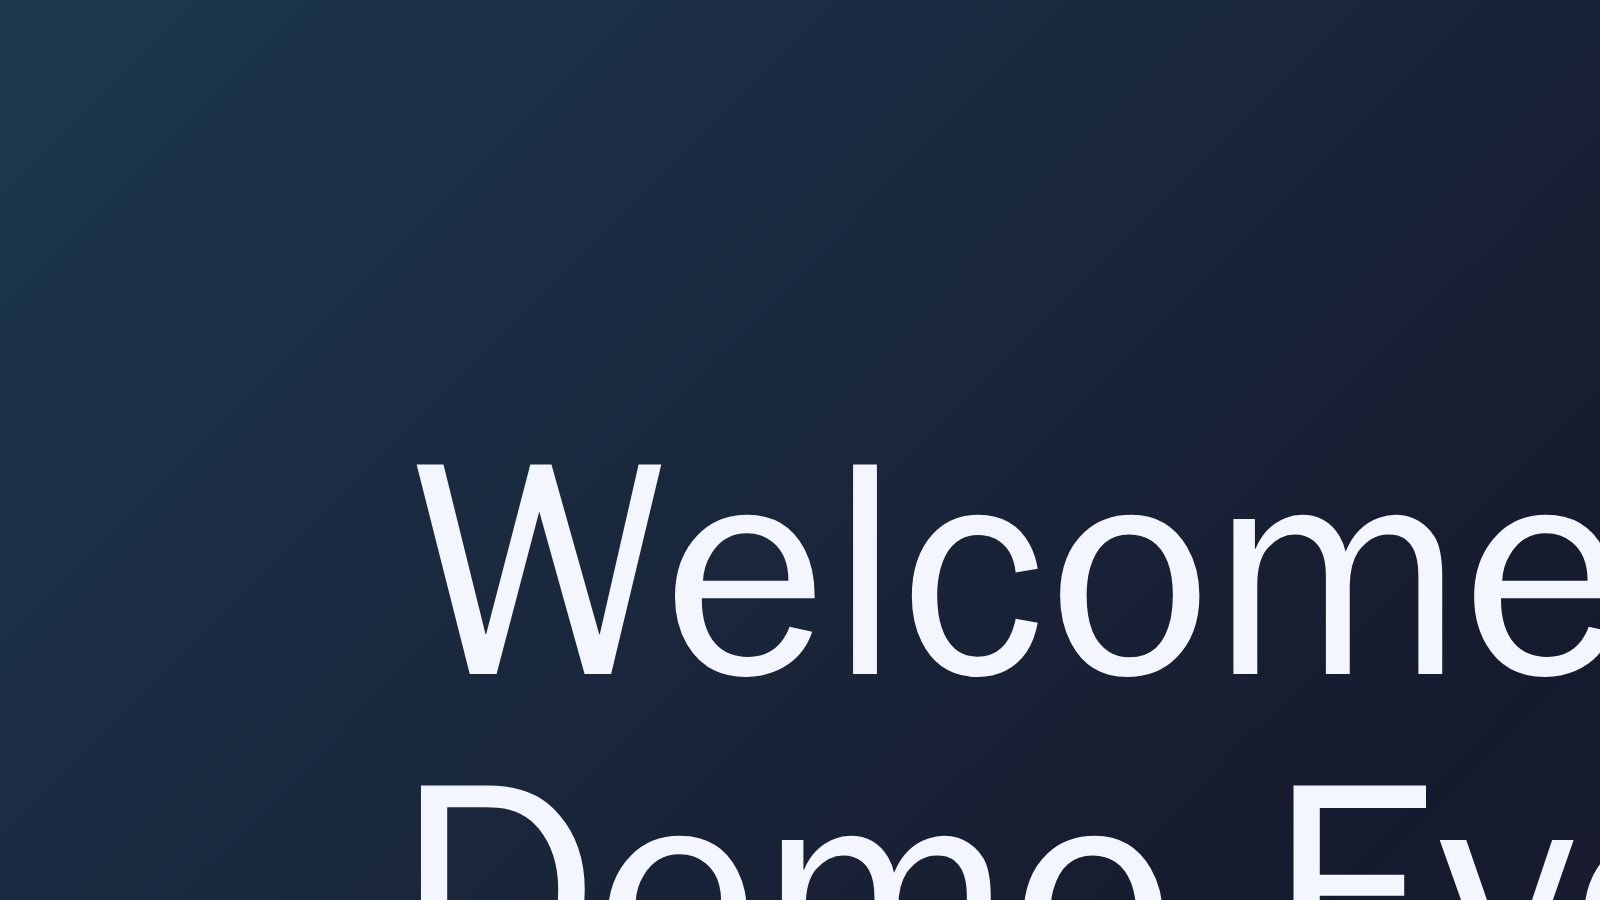
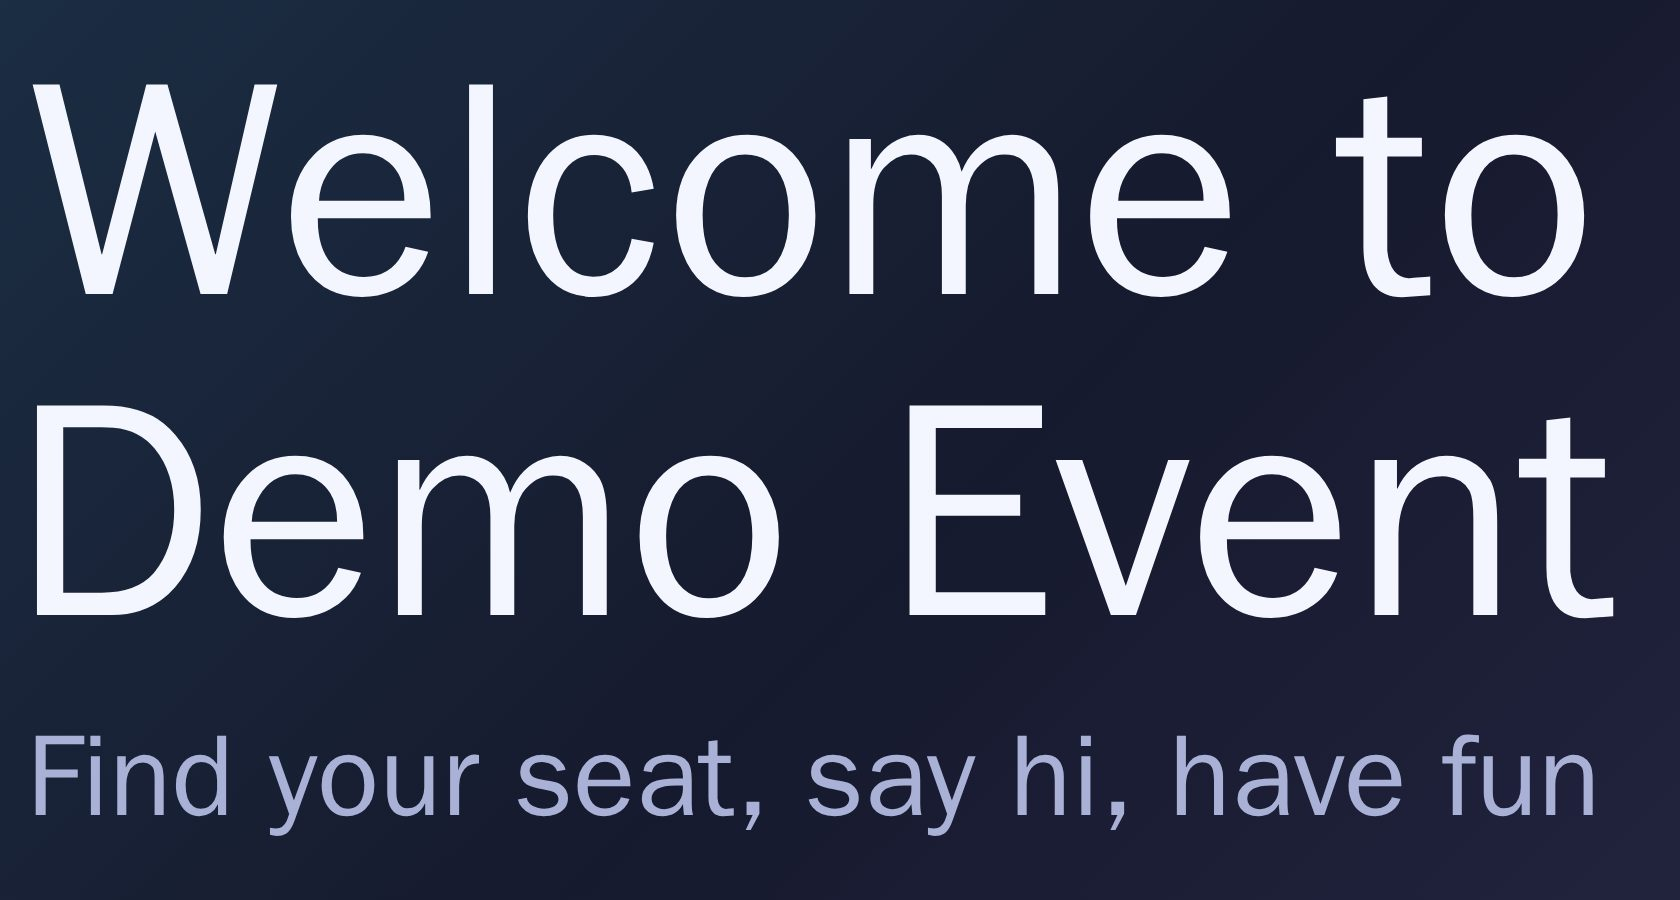
docs(reports): step 4 polish book: Starting soon in real time, Fire by hand, seen while shooting

diff --git a/docs/reports/step4-polish-book.md b/docs/reports/step4-polish-book.md
@@ -9,13 +9,13 @@ It has three parts: [the organiser and crew pages](#the-organiser-and-crew), [th
 - **Two sources, both main `9f02c35`:**
   - **CI:** the artifact `demo-screenshots` of the Demo stack run on the push of `9f02c35` ([44514926330](https://github.com/Tammilanit/canccuplatform-next/actions/runs/44514926330), green). `scripts/demo-screenshots` took these in Chromium, with the demo event, its fixture and the CI session stub ([docs/ci.md](../ci.md#demo-stack)). Since #625 the storyboard screen shots pass the screens' readability check too. The book marks them *CI*.
   - **Local:** what CI does not shoot comes from the same commit, built locally with the same CI overlay (`deploy/compose.yml` + `deploy/compose.ci.yml`), the same fixture (`seedScreens`) and the same Playwright image. A one-off script built on the CI scripts' helpers took them (it is not committed). That covers: the gate's sequences in real time, the first fire on a fresh stack, the portrait screens, the mute and the sound check, Test-fire, a drag on Priorities and Fire by hand. The screens are real paired players on `/screen/`, each with its device cookie, so they draw what Screen places, as an installed screen would. The book marks them *local*.
-- **The event's time zone, local shots only:** Midnight fires at the event's own 00:00. To shoot it on the dot without waiting for UTC midnight, the local stack's demo event was set to the time zone `Australia/Eucla` (UTC+8:45) at 14:58 UTC. That made midnight fall at 15:15:00 UTC the same day. Before that, from 14:54 to 14:58 UTC, it was `Asia/Shanghai` (UTC+8), and the first fire (V6) was shot then. So the local shots show event time: the clock reads 22:57 to 00:45. The organiser header reads "Thu 19 – Sat 21 Nov", because the demo event's dates are UTC days shown in that zone. Nothing else changed: the fixture's run of show keeps its UTC times, so the semis start at 16:00 UTC (00:45 event time), the item Starting soon fired on in S1.
-- **Data:** the demo profile and the screens' fixture: a run of show around the time of the run (Dinner on now, the semis delayed 15 minutes), a ticker line, and two zones, Main hall (landscape) and Entrance (portrait, with the check-in QR in its hero). On top of that, per shot: crew spotlights, an urgent announcement, test-fires, Premiere set up on an added item with the demo film, and Starting soon on the fixture's semis. Every moment was ended or withdrawn afterwards, and every added item and file was removed.
+- **The event's time zone, local shots only:** Midnight fires at the event's own 00:00. To shoot it on the dot without waiting for UTC midnight, the local stack's demo event was set to the time zone `Australia/Eucla` (UTC+8:45) at 14:58 UTC. That made midnight fall at 15:15:00 UTC the same day. Before that, from about 14:55 to 14:58 UTC, it was `Asia/Shanghai` (UTC+8), and the first fire (V6) was shot then. So the local shots show event time: the clock reads 22:57 to 00:47. The organiser header reads "Thu 19 – Sat 21 Nov" there, where CI's reads "Thu 19 – Fri 20 Nov": the same dates seen from that zone. Nothing else changed: the fixture's run of show keeps its UTC times, so the semis start at 16:00 UTC (00:45 event time), the item Starting soon fired on in S1.
+- **Data:** the demo profile and the screens' fixture: a run of show around the time of the run (Dinner on now, the semis delayed 15 minutes), a ticker line, and two zones, Main hall (landscape) and Entrance (portrait, with the check-in QR in its hero). On top of that, per shot: crew spotlights, an urgent announcement, test-fires, Premiere set up on an added item with the demo film, and Starting soon on the fixture's semis. Every moment and run was ended, stopped or withdrawn afterwards, and every added item and file was removed (the agenda kind Premiere stays on the throwaway stack).
 - **Sizes:**
   - Pages are shown 1:1 as PNG: desktop 1280 px wide and phone 390 px wide, as tall as the page. A few local ones show only the window (1280×800), the top of the page, where the change is.
   - Screens were shot at 1920×1080, 3840×2160 and 1080×1920. Here they are JPEG, 720 px on the short side, with one 1:1 crop of a 4K screen. Sequences are numbered strips.
   - Each sequence frame's label is the instant the shot was asked for, in event time. A capture takes 1.1 to 1.8 s, and when two screens are shot at once in one browser, their captures can be up to about a second apart.
-- **Time:** CI took its shots 11:30–11:37 UTC. The local shots were taken 14:57–16:05 UTC: Midnight at 15:14:45–15:15:21, and Starting soon's rounds at 15:45, 15:55 and 15:59 UTC, with its finale at 16:00.
+- **Time:** CI took its shots 11:30–11:37 UTC. The local shots were taken 14:57–16:03 UTC: Midnight at 15:14:45–15:15:21, and Starting soon's rounds at 15:45, 15:55 and 15:59 UTC, with its finale at 16:00.
 - **Mockups:** "polish NN" is sheet NN of [docs/briefs/step-4-polish/](../briefs/step-4-polish/README.md) (#623). "Mockup NN" is the step 4 brief's mockup in [docs/briefs/step-4-moments/](../briefs/step-4-moments/). "Before" is the old book's shot (O, C, A, R, S numbers).
 
 ## Contents
@@ -28,7 +28,7 @@ It has three parts: [the organiser and crew pages](#the-organiser-and-crew), [th
 
 ## The organiser and crew
 
-Every page is in the organiser shell, under Studio → Moments (sheet 2 of [the design guideline](../design/mockups.html)). Each one is shown at 1280 px and on a 390 px phone.
+Every page is in the organiser shell, under Studio → Moments (sheet 2 of [the design guideline](../design/mockups.html)). Most are shown at 1280 px and on a 390 px phone; CI shoots the builder's loop, Premiere and Test-fire at 1280 px only.
 
 ### P1 · Priorities: drag and drop, no rank numbers
 
@@ -36,7 +36,7 @@ Every page is in the organiser shell, under Studio → Moments (sheet 2 of [the 
 |---|---|---|---|---|
 | ![Priorities](step4-polish-book/p01-priorities.png) | ![Priorities while a row is dragged](step4-polish-book/p01-priorities-dragging.png) | ![Priorities, phone](step4-polish-book/p01-priorities-phone.png) | ![Mockup 08](../briefs/step-4-moments/08-priorities.svg) | ![O5](step4-screenshot-book/o05-priorities-and-rules.png) |
 
-The order is a list of classes with a drag handle each. The rank numbers and arrows are gone, as the PO asked ("drag and drop, not arrows; the rank numbers mean nothing"). The line above says "Drag a class by its handle, or focus it and use the arrow keys", and Emergency stays locked at the top. In the local shot, Crew spotlight is held mid-drag and has already moved above Announcement. Rows reorder live under the pointer, and Save order keeps the new order. The preview of what main would show sits beside the list (here it plays the test round of P14). On a phone the list, the preview and the rules stack in one column. This matches mockup 08's drag and drop, without its numbers.
+The order is a list of classes with a drag handle each. The rank numbers and arrows are gone, as the PO asked ("drag and drop, not arrows; the rank numbers mean nothing"). The line above says "Drag a class by its handle, or focus it and use the arrow keys", and Emergency stays locked at the top. In the local shot, Crew spotlight is held mid-drag and has already moved above Announcement. Rows reorder live under the pointer; Save order then keeps the order (the shot does not save). The preview of what main would show sits beside the list (here it plays the test round of P14). On a phone the list, the preview and the rules stack in one column. This matches mockup 08's drag and drop, without its numbers.
 
 ### P2 · The built-in rules: chips and sliders
 
@@ -76,7 +76,7 @@ Upload a sound is one button with a drop area and its rules in words. The 12 sou
 |---|---|---|---|
 | ![Limits and categories](step4-polish-book/p06-limits.png) | ![Limits and categories, phone](step4-polish-book/p06-limits-phone.png) | ![Polish 03](../briefs/step-4-polish/03-sound-desk-library-limits-log.svg) | ![O9](step4-screenshot-book/o09-cues.png) |
 
-Budget per zone has Sounds an hour and Sounds a minute as sliders and the per-source gap as a stepper. The zone table says what passes now and that no zone has a sound screen ("None · Set one in Devices"). Categories are rows of a level slider and two switches (Interrupts or Waits, Plays or Silent at calm). Every number of O9's boxes is now a slider or a stepper, as polish 03 draws it. The pending row sits halfway down here too, an artefact of the capture.
+Budget per zone has Sounds an hour and Sounds a minute as sliders and the per-source gap as a stepper. The zone table says what passes now and that no zone has a sound screen ("None · Set one in Devices"). Categories are rows of a level slider and two switches (Interrupts or Waits, Plays or Silent at calm). Every number box of O9 is now a slider or a stepper, as polish 03 draws it. The pending row sits halfway down here too, an artefact of the capture.
 
 ### P7 · Log
 
@@ -140,7 +140,7 @@ Premiere, set up for the demo film. It plays when a premiere item starts, by han
 |---|---|---|
 | ![Match called after Test-fire](step4-polish-book/p14-builder-test-fired.png) | ![Polish 05](../briefs/step-4-polish/05-builder.svg) | ![O23](step4-screenshot-book/o23-builder-test-fired.png) |
 
-Match called after Test-fire on main: a green notice says "One test round on main." under the header, which keeps Test-fire on main and Save. Polish 05 puts that line in the header itself ("One test round on Main hall · marked as a test in History"). Here it is a notice, and it does not mention History. Close to the sheet, not the same.
+Match called after Test-fire on main: a green notice says "One test round on main." under the header, which keeps Test-fire on main and Save. Polish 05 puts that line in the header itself ("One test round on Main hall · marked as a test in History"). Here it is a notice, it names the zone by its key ("main") rather than its name (Main hall), and it does not mention History. Close to the sheet, not the same.
 
 ### P15 · History
 
@@ -156,7 +156,7 @@ On a phone each row is now a card (Time, Zone, Moment and its outcome, Region, W
 |---|---|---|---|---|
 | ![On air](step4-polish-book/p16-on-air.png) | ![On air, phone](step4-polish-book/p16-on-air-phone.png) | ![On air after Fire Starting soon](step4-polish-book/p16-fired.png) | ![Mockup 03](../briefs/step-4-moments/03-on-air.svg) ![Mockup 04](../briefs/step-4-moments/04-crew-remote.svg) | ![O2](step4-screenshot-book/o02-on-air-fired.png) |
 
-PENDING-P16
+The Storyboards card's item list now starts at the next item a story can take, not at the first item of the day. In CI at 11:30 UTC it picks "Demo Game Cup, semis", the next tournament item. Locally, with the semis started, it picks "Demo Game Cup, grand final" (17:45 UTC). In O2 the list started at Doors open, already past. Fire Starting soon on it (local): the page says "Fired." and the card reads "Starting soon · between rounds", with Stop loop and Skip to finale. The rounds count from the item's time, so nothing plays until the grand final's T−15 (V7). This answers #624's "Fire defaults to the next fitting item" (mockups 03 and 04 draw an item picker but no default). Two things fall short: the list writes the time in UTC ("17:45") where the event's clock reads 02:30, and on a phone the list touches the first Fire button (see [Seen while shooting](#seen-while-shooting)).
 
 ### P17 · The spotlight remote's photo picker
 
@@ -224,11 +224,15 @@ Each of the 23 presets, test-fired as one round on the main hall and shot at its
 |---|---|---|---|
 | ![Doors open's first fire on main](step4-polish-book/v06-first-fire.jpg) | ![The same fire on the entrance](step4-polish-book/v06-first-fire-portrait.jpg) | ![Polish 10](../briefs/step-4-polish/10-hero-4k-portrait.svg) | ![R20](step4-screenshot-book/r20-qr-step-blank.jpg) ![A5](step4-screenshot-book/a05-storyboard-card-portrait.jpg) |
 
-The first storyboard fired on a freshly started stack (Moments restarted just before), Doors open, test-fired on main and on the entrance at 14:57:08 UTC (22:57 event time, then UTC+8). The message reads "Welcome to Demo Event" on both screens at once, and the QR step draws its code at once. The first test-fire of the old book read "Welcome to" (A5, R19) and drew a white square (R20). This matches polish 10 (portrait: "the first fire never reads 'Welcome to' on its own"), apart from the kicker.
+The first storyboard fired on a freshly started stack (Moments restarted just before), Doors open, test-fired on main and on the entrance at 14:57:08 UTC (22:57 event time, then UTC+8). The message reads "Welcome to Demo Event" on both screens, and the QR step shows its code (each frame shot about 1 s after the step was drawn). The first test-fire of the old book read "Welcome to" (A5, R19) and drew a white square (R20). This matches polish 10 (portrait: "the first fire never reads 'Welcome to' on its own"), apart from the kicker.
 
 ### V7 · Fired by hand (R22)
 
-PENDING-V7
+| Main hall after Fire (*local*) | Before (R22) |
+|---|---|
+| ![The main hall after Fire Starting soon](step4-polish-book/v07-after-fire.jpg) | ![R22](step4-screenshot-book/r22-fired-by-hand.jpg) |
+
+The main hall 80 s after P16's Fire: the Pulse, with the grand final in the hero ("Starts in 01:42:24"). Nothing jumps to a finale. In R22 Fire defaulted to an item already past, and "It's on!" went up when nothing was starting. Now the run waits for its rounds at the item's T−15, T−5 and T−1, as S1 shows. The crew sees "between rounds" on On air but nothing on screen (see [Seen while shooting](#seen-while-shooting)). The run was stopped afterwards.
 
 ## The gate's sequences
 
@@ -236,7 +240,21 @@ Each sequence is a strip of numbered frames, labelled with the instant each was 
 
 ### S1 · Starting soon: T−15, T−5, T−1 and its finale
 
-PENDING-S1
+| Main hall, 1080p (*local*, real time) |
+|---|
+| ![Starting soon at T−15, T−5, T−1 and T](step4-polish-book/s01-starting-soon.jpg) |
+
+| Mockup: polish 08 (7–9) and mockup 19 | Before (S1) |
+|---|---|
+| ![Polish 08](../briefs/step-4-polish/08-hero-templates-1080p.svg) ![Mockup 19](../briefs/step-4-moments/19-storyboard-loop-timeline.svg) | ![S1](step4-screenshot-book/s01-starting-soon.jpg) |
+
+Nothing fired by hand and no item added. Starting soon fired by itself on the fixture's own tournament item, "Demo Game Cup, semis", which starts at 00:45:00 event time (16:00 UTC, 15 minutes late). The run started at T−15 exactly (15:45:00.98 UTC by its record).
+- **T−15:** the Pulse 15 minutes before (1), then the round's countdown "Demo Game Cup, semis · Starts in · 14:27 · Stage · in 15 minutes", large and centred in the hero (2). The watcher missed the round's opening sting: a bug in the one-off script, not the screen.
+- **T−5:** the sting "Starting soon", bright on the accent gradient and filling the hero (3); the countdown "04:56" (4); the sting again, since the round repeats steps 1–2 twice (5). Then the Pulse comes back between rounds (6).
+- **T−1:** sting (7), then the countdown "00:22" (8). The round is over 13 s before T, and the Pulse counts the last seconds ("Starts in 00:00:13", 9).
+- **T:** at 00:45:01 the finale "It's on! · Demo Game Cup, semis · Stage" fills the hero on the accent gradient (10). Nine seconds later the Pulse is back with the next tournament item (11).
+
+Each round plays on time and counts to the item, not to its own offset. The screen's clock in the top right reads the same minute as each label. This answers the lead's two notes on S1: the sting is now the loudest thing on the screen, not dim and small, and the finale is no longer "the quietest moment". It matches polish 08 (7–9) in scale and colour, without the sheet's "STARTING SOON" kicker over the countdown.
 
 ### S2 · Midnight at 00:00:00 on every zone
 
@@ -248,7 +266,7 @@ PENDING-S1
 |---|---|---|
 | ![Midnight at the entrance](step4-polish-book/s02-midnight-entrance.jpg) | ![Polish 09](../briefs/step-4-polish/09-hero-midnight.svg) | ![S2](step4-screenshot-book/s02-midnight.jpg) ![S2 at the entrance](step4-screenshot-book/s02-midnight-p00000-portrait.jpg) |
 
-Nothing fired by hand. Two paired players, the main hall at 1080p and the entrance in portrait, were each shot at the same instants, from 15 s before the event's midnight to 13 s after. At 23:59:45 and 23:59:50 both show the Pulse (1–2). By 23:59:55 both show the full-screen countdown "Midnight · Starts in · 00:05" with 330 px figures, and at 23:59:59.4 "00:01" (3–4). At 00:00:00.8 both show the sting "Midnight!" full screen on the theme's gradient (5). At 00:00:08 and 00:00:13 both show the card "Night 1 at Demo Event · Keep it going" (7–8); it is night 1 because the event began on Thursday in this time zone. At 00:00:03.9 the main hall was still on the sting while the entrance was in the 0.6 s gap before the card (6). The two captures run one after the other in one browser, so this may be the capture's own spread, not the zones'. Sting and card never overlap. So the entrance is now on the dot with the main hall, where in S2 it showed only its background at 00:00:00. This matches polish 09's timing and its no-overlap rule. The build leaves out the sheet's kicker lines ("MIDNIGHT IN", "Night 2 … starts at 00:00", "MIDNIGHT") and most of its confetti. During the countdown a purple glow runs round the edge of both screens (3–4), which polish 09 does not draw.
+Nothing fired by hand. Two paired players, the main hall at 1080p and the entrance in portrait, were each shot at the same instants, from 15 s before the event's midnight to 13 s after. At 23:59:45 and 23:59:50 both show the Pulse (1–2). By 23:59:55 both show the full-screen countdown "Midnight · Starts in · 00:05", and at 23:59:59.4 "00:01" (3–4). At 00:00:00.8 both show the sting "Midnight!" full screen on the theme's gradient (5). At 00:00:08 and 00:00:13 both show the card "Night 1 at Demo Event · Keep it going" (7–8). At 00:00:03.9 the main hall was still on the sting while the entrance was in the 0.6 s gap before the card (6). The two captures run one after the other in one browser, so this may be the capture's own spread, not the zones'. Sting and card never overlap. So the entrance is now on the dot with the main hall, where in S2 it showed only its background at 00:00:00. This matches polish 09's timing and its no-overlap rule. The build leaves out the sheet's kicker lines ("MIDNIGHT IN", "Night 2 … starts at 00:00", "MIDNIGHT") and most of its confetti. During the countdown a purple glow runs round the edge of both screens (3–4), which polish 09 does not draw.
 
 ### S3 · Premiere on two screens at once
 
@@ -256,7 +274,7 @@ Nothing fired by hand. Two paired players, the main hall at 1080p and the entran
 |---|---|---|
 | ![Premiere on two main-hall screens](step4-polish-book/s03-premiere.jpg) | ![Mockup 22](../briefs/step-4-moments/22-storyboard-premiere.svg) | ![S3](step4-screenshot-book/s03-premiere-two-screens.jpg) |
 
-Two players paired into the main hall, side by side, with Premiere test-fired on an added premiere item with the demo film. Each row is one moment on both screens. The countdown "Demo Event: the film · Starts in · 00:29 · Lights down, sound up" fills the hero (1–4). Its words now match the counter, where S3 said "Starts 02:00" over a 30 s count. The film then plays full bleed, edge to edge with no frame and no bars, at three moments (5–10). Last comes the after-card "Thanks for watching · Again at 21:00 on Stage", large and centred (11–12). The film's own position, read from both players at the same instant: 1.867 s and 1.818 s, 6.262 s and 6.212 s, 10.695 s and 10.645 s. The two screens stay 49–50 ms apart and do not drift, and the film's second counter shows the same second on both. This matches mockup 22 and the lead's two fixes for S3 (full bleed, matching countdown text).
+Two players paired into the main hall, side by side, with Premiere test-fired on an added premiere item with the demo film. Each row is one moment on both screens. The countdown "Demo Event: the film · Starts in · 00:29 · Lights down, sound up" fills the hero (1–4). Its words now match the counter, where S3 said "Starts 02:00" over a 30 s count. The film then plays full bleed, edge to edge with no frame and no bars, at three moments (5–10). Last comes the after-card "Thanks for watching · Again at 21:00 on Stage", large and centred (11–12). The film's own position, read from both players together: 1.867 s and 1.818 s, 6.262 s and 6.212 s, 10.695 s and 10.645 s. The two screens stay 49–50 ms apart and do not drift, and the film's second counter shows the same second on both. This matches mockup 22 and the lead's two fixes for S3 (full bleed, matching countdown text).
 
 ## Not in this book
 
@@ -273,13 +291,15 @@ Not fixed here (out of scope); for the lead to sort.
 - **A test-fired countdown counts from its round's offset.** Starting soon test-fired at 11:31 counts down "14:56", while the rail says the semis start in 58 minutes (V4, 2); the builder's preview shows "05:00" (P11). A test round seems to count its own −15 rather than the time to the item. The step thumbnails in the builder's strip read "05:00" whatever the step's length (P11, P13: a 30 s countdown).
 - **The urgent ticker label is purple.** The card's URGENT is amber (the warning colour), but the ticker's URGENT label sits on the purple secondary ground (V5, portrait). Mockup 06 uses the warning colour for both.
 - **A purple glow runs round the screen's edge** during Midnight's countdown, on both zones (S2, 3–4); polish 09 draws none.
+- **The rail lists the semis as "Delayed · 00:45" after they started** (S1 frames 10–11, V7, two minutes after T), not as Now. A step 3 Pulse matter, seen here.
 - **Match called with no data** still reads "Match called:" over an empty hero (V4, 3). It is on the old book's "later" list.
 
 **Pages**
 - **On air still shows rank numbers** ("rank 70") on every moment (P16), after the PO dropped them on Priorities as meaningless.
-- **On air's item list** is clipped at 1280 px ("Demo Game Cup, semis · 12:3", P16), and on a phone it touches the first Fire button with no gap.
-- **The spotlight form shows every field at once:** Message, More, Bracket of and Photo, whatever What it shows says (P17). Mockup 04 shows only the fields of the chosen kind.
-- **CI's full-page shots draw the pending row in the middle** of the cue editor and of Limits and categories (P4, P6), over the Voice line heading. The row sticks to the window's foot, and a full-page capture leaves it where the window ended. The phone shots handle this already (`tall`); the desktop ones of these two pages do not.
+- **On air's item list writes item times in UTC:** "Demo Game Cup, grand final · 17:45" while the event's clock reads 00:46 and the screens put the item at 02:30 (P16, local, with the event in UTC+8:45; CI runs in UTC, so it does not show there). The list is also clipped at 1280 px ("Demo Game Cup, semis · 12:3"), and on a phone it touches the first Fire button with no gap.
+- **Fire by hand on a later item shows nothing for now.** Fired on the grand final, 1 h 44 min away, Starting soon waits for its T−15 round; On air says "between rounds" and the screens stay on the Pulse (P16, V7). That is the rule (a take with an item counts from the item's time), but a crew member who pressed Fire sees nothing happen. Skip to finale is the only way to put something up now.
+- **The spotlight form shows every field at once:** Message, More, Bracket of and Photo, whatever What it shows says (P17). Mockup 04 shows only the fields of the chosen kind. At 1280 px every field spans the whole 944 px column, the one long edit box the PO disliked in the builder.
+- **CI's full-page shots draw the pending row in the middle** of the cue editor and of Limits and categories (P4, P6), over the Voice line heading. The row sticks to the window's foot, and a full-page capture leaves it where the window ended. The phone shots grow the window to the page's height first, so their row sits at the foot; the desktop ones do not.
 - **After Test-fire the builder says "One test round on main."** as a notice under the header. Polish 05 puts it in the header and adds "marked as a test in History" (P14).
 
 ## Lead's evaluation
